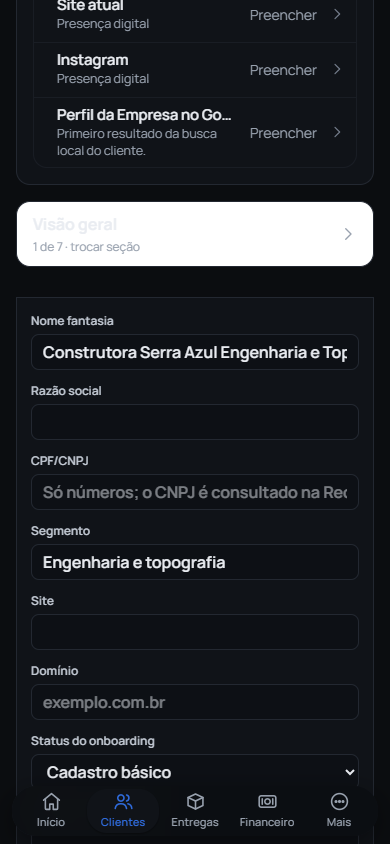
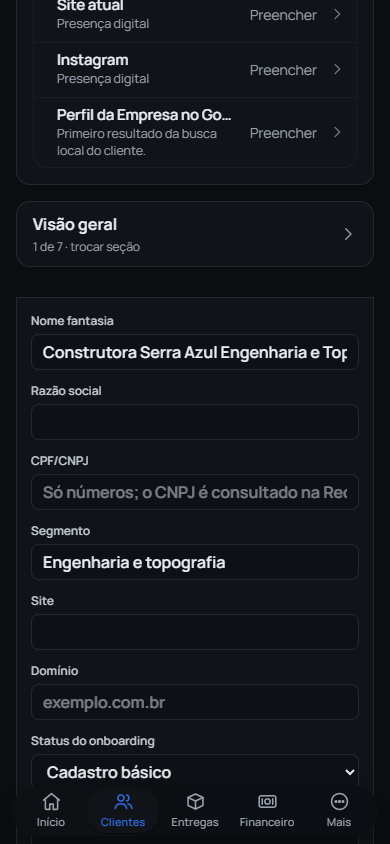
docs: registra cadastro validado apos corrigir contraste

Changed region(s): [[0.0308, 0.2156, 0.9538, 0.3389]]

diff --git a/docs/prints/densidade-final/README.md b/docs/prints/densidade-final/README.md
@@ -1,6 +1,6 @@
 # Validação final da densidade — PR #55
 
-Conferência em 01/10/2026, sobre o código de `2ad4f55`, com a main `e33eded`
+Conferência em 01/10/2026, sobre o código final de `85339e0`, com a main `e33eded`
 incorporada. Os ajustes de clientes e cadastro que já chegaram à main foram
 preservados: o diff restante mantém os tokens atuais, compacta os espaçamentos
 maiores no celular, reduz a altura inicial dos textos multilinha e permite ler
@@ -20,6 +20,8 @@ as explicações do cadastro assistido.
 - Cadastro assistido a 390 px: o botão de preenchimento leva ao campo e mantém
   o foco. A inspeção revelou o fundo branco do seletor no tema escuro; o seletor
   e a barra de salvar agora usam o token de superfície que existe nos dois temas.
+- Após a correção, a ficha de cadastro também passou nas oito combinações de
+  largura e tema, sem problemas. O build foi repetido e aprovado nesse código.
 
 O roteiro usado foi `docs/prints/financeiro/conferir.mjs` da branch do #61,
 apontado para o build independente do #55. A captura de página inteira omite
@@ -31,6 +33,7 @@ mostra a barra real e verifica o último elemento visível.
 ![Clientes a 360 px, tema claro](clientes-360-light.png)
 ![Clientes em desktop, tema claro](clientes-1440-light.png)
 ![Fim da operação no celular, tema escuro](operacao-390-dark-fim.png)
+![Campo acessado pelo cadastro assistido, com contraste corrigido](campo-focado-390-dark.png)
 
 As imagens desta pasta mostram o #55 isoladamente. A marca oficial e os novos
 ícones estão no #61, que incorpora o #55 e deve ser integrado depois dele.
